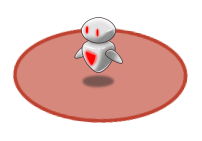
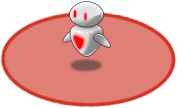
fix: 경비 로봇 배치, 대사 확인 버튼 '다음'으로 변경

diff --git a/normal-app/ground-floor/main.ts b/normal-app/ground-floor/main.ts
@@ -23,9 +23,16 @@ let chell = ScriptApp.loadSpritesheet("0.png", 48, 64, {
 });
 
 let testObjectXY = [
-    [135, 36],
-    [141, 35],
-    [145, 35],
+    [140, 29],
+    [133, 33],
+    [131, 36],
+    [118, 30],
+    [124, 31],
+    [126, 26],
+    [118, 36],
+    [133, 25],
+    [149, 33],
+    [124, 37]
 ];
 
 let transparentObjectXY = [
@@ -120,7 +127,7 @@ ScriptApp.onStart.Add(function () {
         })
     };
 
-    ScriptMap.putObjectWithKey(131, 40, carolineA, {
+    ScriptMap.putObjectWithKey(130, 40, carolineA, {
         key: "carolineA-lobby",
         overlap: true,
         //@ts-ignore
@@ -128,6 +135,7 @@ ScriptApp.onStart.Add(function () {
     });
 
     ScriptMap.putObjectWithKey(92, 140, carolineA, {
+
         key: "carolineA-sample",
         overlap: true,
         //@ts-ignore
@@ -212,10 +220,12 @@ ScriptApp.addOnKeyDown(70, function(player) {
                         },
                         {
                             content: "아이템 ‘누군가의 머리’를 얻었다.",
+                            confirmText: "다음",
                         });
                     },
                 {
                     content: "유리 장식장을 열고 안드로이드의 머리를 꺼냈다. 메모리 칩은 초기화가 되어 있는 것 같다.",
+                    confirmText: "다음",
                 });
                     player.tag.hasItem = true;
                 }
@@ -232,6 +242,10 @@ ScriptApp.addOnKeyDown(70, function(player) {
                         //@ts-ignore
                         player.showAlert("", function () {
                             //@ts-ignore
+                            player.disappearObject("plant");
+                            player.tag.hasPlant = false;
+
+                            //@ts-ignore
                             player.showAlert("", function () {
                             },
                             {
@@ -240,15 +254,13 @@ ScriptApp.addOnKeyDown(70, function(player) {
                         },
                         {
                             content: "벽을 더듬어 만지니 아주 미세하게 갈라진 틈이 있다. 힘주어 당기니 아주 작고 기나긴 통로가 나왔다.",
+                            confirmText: "다음",
                         });
                     },
-                {
-                    content: "생물이라고는 연구원들 뿐인 이 연구소에 살아있는 진짜 식물이 있었다니. 신기하기도 하고 의아하기도 해 가까이 다가가니 벽에 위화감이 느껴진다.",
-                });
-
-                //@ts-ignore
-                player.disappearObject("plant");
-                player.tag.hasPlant = false;
+                    {
+                        content: "생물이라고는 연구원들 뿐인 이 연구소에 살아있는 진짜 식물이 있었다니. 신기하기도 하고 의아하기도 해 가까이 다가가니 벽에 위화감이 느껴진다.",
+                        confirmText: "다음",
+                    });
                 }
             break;
 
@@ -302,18 +314,22 @@ ScriptApp.addOnKeyDown(70, function(player) {
                                 },
                                 {
                                     content: "아이템 ‘캐롤린의 원본 머리’를 얻었다.",
+                                    confirmText: "다음",
                                 });
                             },
                             {
                                 content: "나는 새로운 안드로이드의 머리에 캐롤린의 메모리를 복사해 이식했다.",
+                                confirmText: "다음",
                             });
                             },
                         {
                             content: "캐롤린을 눕히고 머리를 확인하자 다행히 메모리 칩은 무사하다. 캐롤린과 함께 하려면 이 방법밖에 없다…",
+                            confirmText: "다음",
                         });
                         },
                     {
                         content: "캐롤린의 걸음이 조금씩 느려진다. 아까 공격받았던 머리의 충격이 큰 것 같다.",
+                        confirmText: "다음",
                     });
                 }
                 break;
